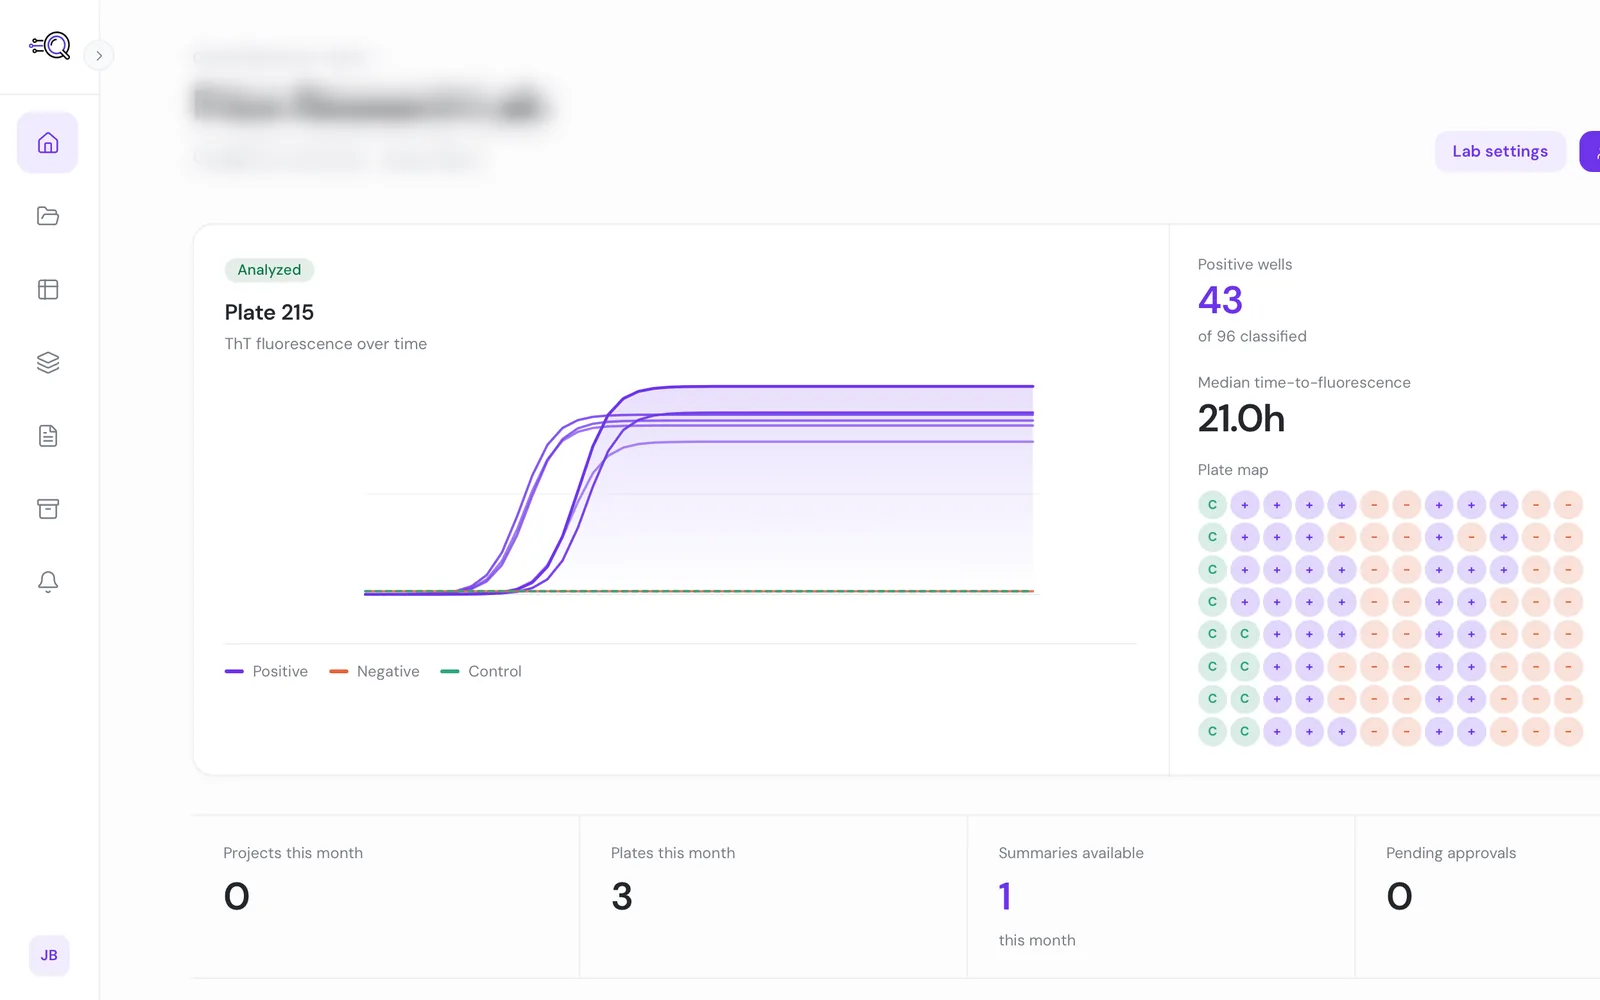
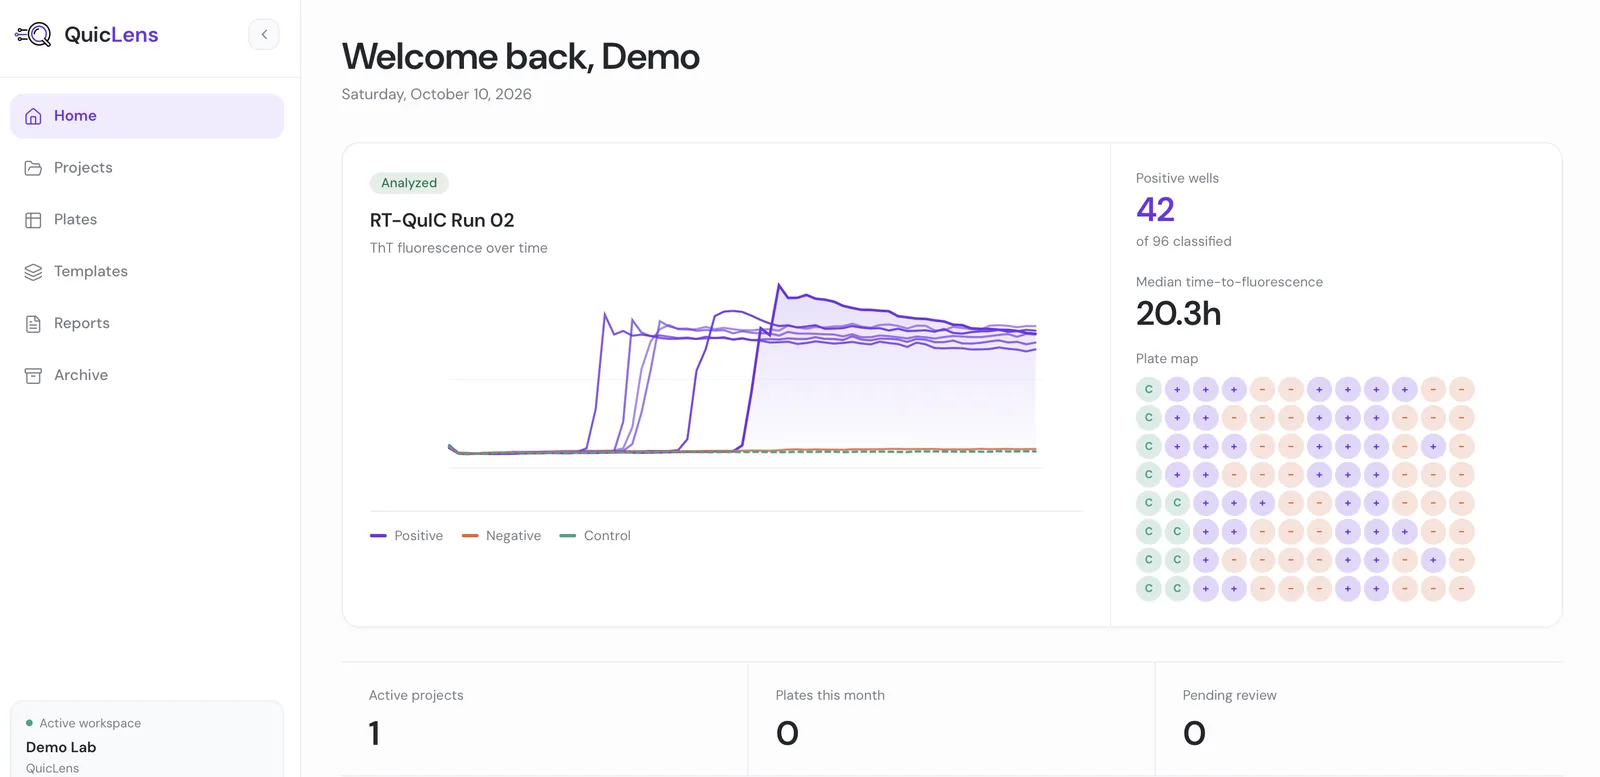
Swap in new RabbitHole and QuicLens screenshots
The QuicLens shot uses demo data, so the blurred header is no longer needed.
It is trimmed to end under the stats row instead of mid-card.

diff --git a/site/index.html b/site/index.html
@@ -75,13 +75,13 @@
             <span class="product-feature-link">Visit RabbitHole</span>
           </div>
           <figure class="product-feature-visual">
-            <img src="assets/rabbithole-home.webp" width="1600" height="737" loading="lazy" decoding="async" alt="The RabbitHole home page: a rabbit sitting in a dim living room beside an old television, with the headline &ldquo;See what&rsquo;s inside&rdquo; and a search box.">
+            <img src="assets/rabbithole-home.webp" width="1600" height="735" loading="lazy" decoding="async" alt="The RabbitHole home page: a rabbit sitting in a dim living room beside an old television, with the headline &ldquo;See what&rsquo;s inside&rdquo; and a search box.">
           </figure>
         </a>
 
         <a class="product-feature quic-feature" href="https://quiclens.com/">
           <figure class="product-feature-visual">
-            <img src="assets/quiclens-dashboard.webp" width="1600" height="1000" loading="lazy" decoding="async" alt="The QuicLens lab dashboard: a fluorescence curve for one plate, summary counts, and a 96-well plate map.">
+            <img src="assets/quiclens-dashboard.webp" width="1600" height="777" loading="lazy" decoding="async" alt="The QuicLens dashboard for a demo lab: a fluorescence curve for one RT-QuIC run, summary counts, and a 96-well plate map.">
           </figure>
           <div class="product-feature-copy">
             <h3>QuicLens</h3>
